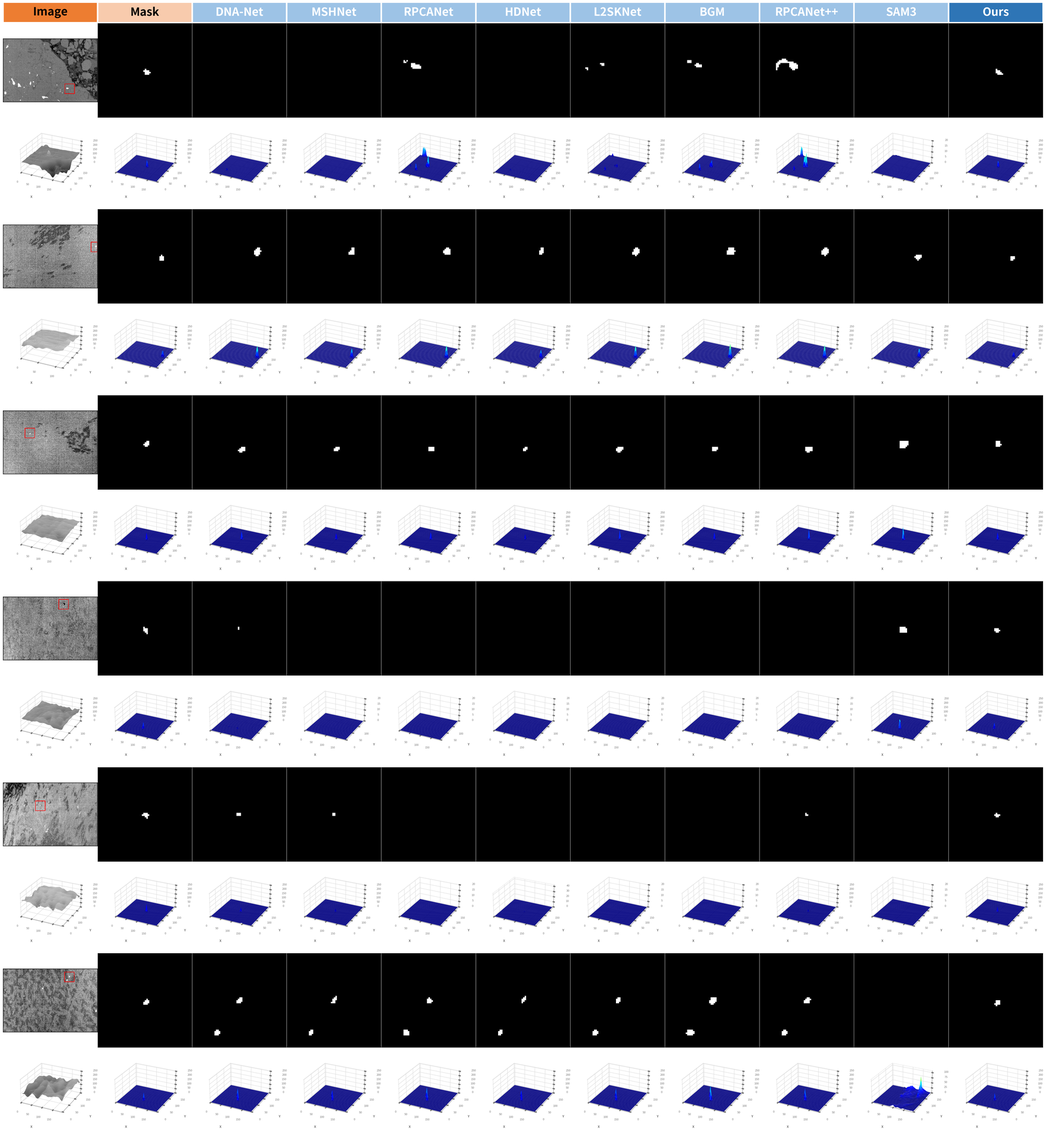
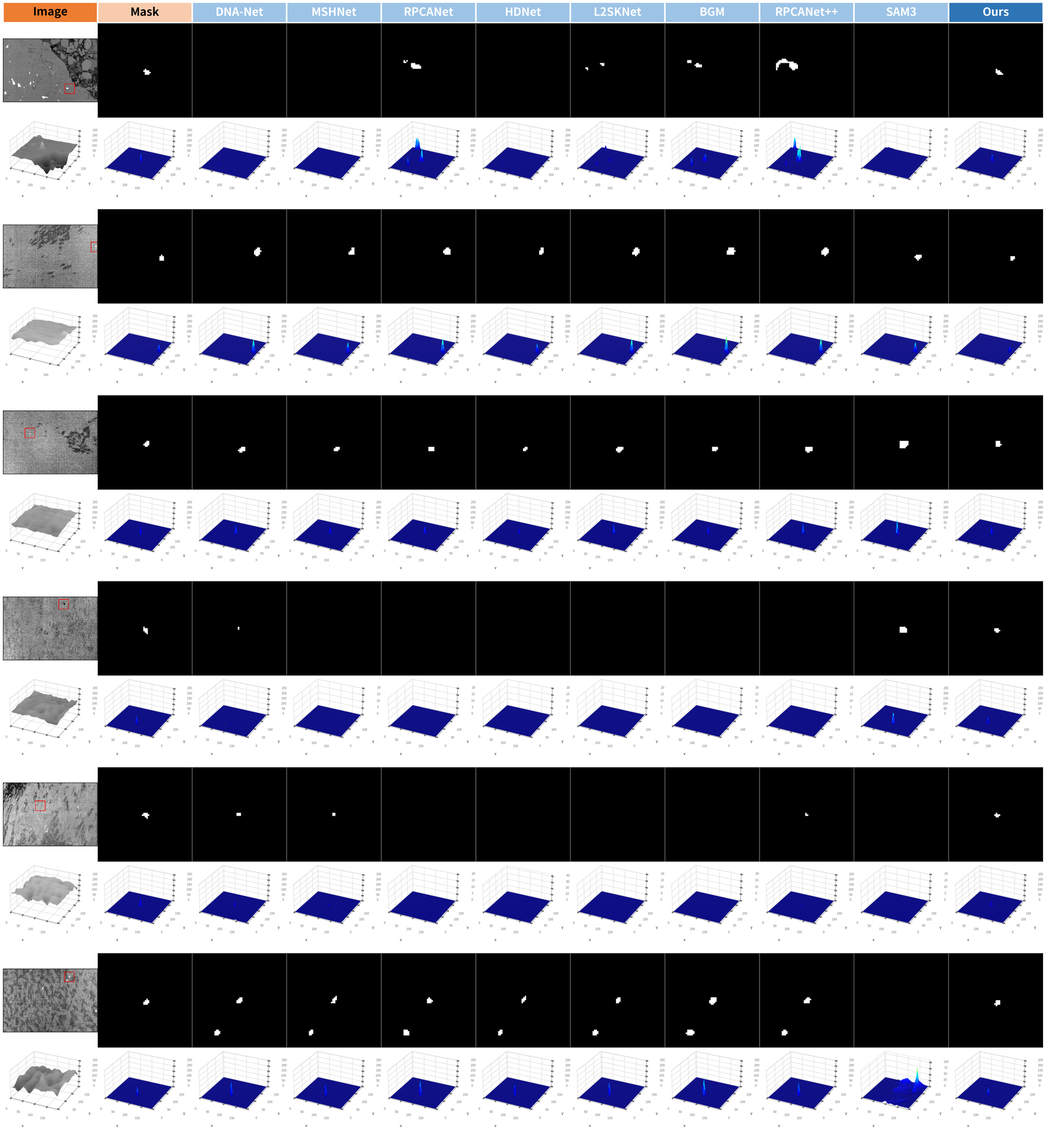
定性图 v4：3D 格子铺满（裁白边后贴回），PDF 反而变小
问题：v3 的 3D 盒子只占格宽约 66%，四周白边是 matplotlib 3D 轴自留的标签空间。
- 每个 3D 先单独渲染成 PNG：0.873x0.733 in @1200 dpi（与拼图格子同尺寸、同字号，字体完整落在格内）
- trim_white 裁掉白边（26 px），再以 aspect='auto' 贴回格子 -> 盒子占格宽约 90%
- 3D 渲染结果缓存到 <out>/_3d_cache/，单图拆分与拼图共用同一张，Visio 里看到的效果与拼图一致
- 副作用：拼图里的 3D 行变成位图（1200 dpi 印刷无差别），PDF 从 5-10 MB 降到 1-2.3 MB
- make_visio_qualitative.ps1：3D 图片高度改为按图片比例计算（923x743）

diff --git a/tools/build_paper_qualitative.py b/tools/build_paper_qualitative.py
@@ -27,6 +27,7 @@ Example
 """
 import argparse
 import json
+import shutil
 from pathlib import Path
 
 import cv2
@@ -139,20 +140,43 @@ def safe_name(name):
     return name.replace('+', 'p').replace('/', '_').replace(' ', '_')
 
 
-def render_surface_png(surf, path, vmax, cmap='jet', smooth=2.0,
-                       size_in=(1.6, 1.344), dpi=600):
-    """One 3D box as a standalone PNG, rendered at the size it will be placed in Visio.
+def trim_white(img_bgr, pad=10, thr=250):
+    """Crop the surrounding white border (keeps a small even pad)."""
+    g = cv2.cvtColor(img_bgr, cv2.COLOR_BGR2GRAY)
+    ys, xs = np.where(g < thr)
+    if len(ys) == 0:
+        return img_bgr
+    h, w = g.shape
+    y0 = max(0, int(ys.min()) - pad)
+    y1 = min(h, int(ys.max()) + 1 + pad)
+    x0 = max(0, int(xs.min()) - pad)
+    x1 = min(w, int(xs.max()) + 1 + pad)
+    return img_bgr[y0:y1, x0:x1]
 
-    1.6 x 1.344 in matches one cell of the composite figure (cell_w x 0.84*cell_w),
-    so the tick labels keep the same visual size when pasted back at 1:1.
+
+def render_surface_png(surf, path, vmax, cmap='jet', smooth=2.0,
+                       size_in=(0.873, 0.733), dpi=1200, pad=26):
+    """One 3D box as a standalone PNG, tight-cropped so the box fills the frame.
+
+    Rendered at exactly one cell of the composite figure (0.873 x 0.733 in) with the
+    same tick font, then the white border is trimmed. The composite figure pastes this
+    PNG back into the cell with aspect='auto', so the 3D box fills the cell instead of
+    floating in matplotlib's generous default margins.
     """
     path.parent.mkdir(parents=True, exist_ok=True)
     f = plt.figure(figsize=size_in, dpi=dpi, facecolor='white')
     ax = f.add_subplot(111, projection='3d')
     add_surface(ax, surf, vmax=vmax, cmap=cmap, smooth=smooth)
     f.subplots_adjust(left=0.0, right=1.0, bottom=0.0, top=1.0)
-    f.savefig(path, dpi=dpi, facecolor='white')
+    import io
+
+    buf = io.BytesIO()
+    f.savefig(buf, format='png', dpi=dpi, facecolor='white')
     plt.close(f)
+    arr = cv2.imdecode(np.frombuffer(buf.getvalue(), np.uint8), cv2.IMREAD_COLOR)
+    arr = trim_white(arr, pad=pad)
+    cv2.imwrite(str(path), arr)
+    return path
 
 
 def add_surface(ax, data, vmax=255.0, smooth=2.0, cmap='jet', tick_font=1.8):
@@ -236,6 +260,8 @@ def main():
     split_root = Path(args.split_dir) if args.split_dir else None
     if split_root is not None:
         split_root.mkdir(parents=True, exist_ok=True)
+    cache_root = out / '_3d_cache'
+    cache_root.mkdir(parents=True, exist_ok=True)
 
     if args.font:
         plt.rcParams['font.family'] = 'sans-serif'
@@ -345,15 +371,24 @@ def main():
             for spine in ax.spines.values():
                 spine.set_color('black'), spine.set_linewidth(0.3)
         for j, surf in enumerate(surfaces):
-            ax = fig.add_subplot(gs[r_srf, j], projection='3d')
             vmax = 255.0 if args.z_mode == 'shared' else max(20.0, float(surf.max()))
             cmap = 'gray' if columns[j][2] == 'image' else 'jet'
             smooth = 5.0 if columns[j][2] == 'image' else 2.0
-            add_surface(ax, surf, vmax=vmax, cmap=cmap, smooth=smooth)
+            col = safe_name(columns[j][0])
+            p3d = cache_root / f'{stem}_{j:02d}_{col}_{int(vmax)}.png'
+            if not p3d.exists():
+                render_surface_png(surf, p3d, vmax=vmax, cmap=cmap, smooth=smooth)
             if split_root is not None:
-                render_surface_png(surf, split_root / f'{si + 1:02d}_{stem}' / '3d' /
-                                   f'{j:02d}_{safe_name(columns[j][0])}.png',
-                                   vmax=vmax, cmap=cmap, smooth=smooth)
+                dst = split_root / f'{si + 1:02d}_{stem}' / '3d' / f'{j:02d}_{col}.png'
+                dst.parent.mkdir(parents=True, exist_ok=True)
+                shutil.copyfile(p3d, dst)
+            # 贴回格子并铺满（PNG 已裁掉白边，aspect='auto' 让 3D 盒子占满整格）
+            ax = fig.add_subplot(gs[r_srf, j])
+            ax.imshow(cv2.cvtColor(cv2.imread(str(p3d)), cv2.COLOR_BGR2RGB),
+                      aspect='auto', interpolation='lanczos')
+            ax.set_xticks([]), ax.set_yticks([])
+            for spine in ax.spines.values():
+                spine.set_visible(False)
 
         if split_root is not None:
             sdir = split_root / f'{si + 1:02d}_{stem}' / '2d'

diff --git a/AGENTS.md b/AGENTS.md
@@ -62,7 +62,7 @@
 - DRPCA-Net 的 11.23 FPS 是实现开销而非测量噪声：`torch.profiler` 显示单次前向 CUDA 时间的 81.8 % 花在 `ChannelAttention` 的 `nn.AdaptiveMaxPool2d(1)`（每前向 29 次调用），且延迟对 batch 1/2/4 不敏感（85/56/65 ms）。按官方代码如实记录，不改实现。口径、对照表与差异分析见 [Seal 复杂度指标说明](docs/Seal复杂度指标_说明.md)。
 - 平凡基线（决定读表方式，不新增表行）：全背景预测（1,983 张全零）在同一 test GT 上为 S 0.49990、Fw 0、E 0.25、MAE 0.00020553，IoU/F1/Pd/Fa 均为 0。12 个基线与 Ours 的 S（0.49800–0.49915）全部低于该值，12 个基线的 MAE（0.000229–0.000375）全部高于该值，只有 Ours 的 MAE（0.00015090）低于它。因此 S/MAE 在 Seal 上不区分方法，比较以 Fw/IoU/F1/Pd/Fa 为主，S/MAE 须与平凡基线并列阅读；复算见 [汇总](docs/Seal全监督基线评估汇总.md#平凡基线全背景预测)。
 - 第三批（入表，行 29～32）：L2SKNet（TGRS25）、BGM（TGRS25）、DRPCA-Net（TGRS25）、DURD（TGRS26），均为 2025–2026 年、有官方代码的全监督单帧方法，12 个对比方法到此凑满。目录 `L2SKNet-main/`、`BGM-main/`、`DRPCA-Net-main/`、`DURD-main/`；训练设置：L2SKNet 150/Adam 5e-4、BGM 150/Adam 5e-4（两者模型输出已是概率，用概率空间 dataset 级 IoU）、DRPCA-Net 60/Adam 3e-5/dataset 级 SoftIoU + 0.01 MSE、DURD 100/Adam 1e-4/SoftIoU + 0.1 MSE。各处改动逐条写在对应实验记录与 [汇总](docs/Seal全监督基线评估汇总.md#训练不稳定与失败记录)。
-- 论文版式定性图（对齐 PDDiff Fig. 8/9）：[tools/build_paper_qualitative.py](tools/build_paper_qualitative.py)，每个样例两行（2D 二值面板 + 红框/放大插图；3D 响应面 `elev=26, azim=-64`、按面板 z 上限）。三条硬约束：① 3D 行必须喂**概率图**（`--surf-maps results/<M>/Seal/fullsup_test_maps`），二值图是 0/255 阶跃，画出来只有一根尖刺；② Seal 目标只有 3–5 px，`full` 版式（整幅 + 右下插图）在 0.87 in 列宽下几乎看不见，正式图用 `--roi-panels`（面板 = 6 倍放大 ROI，`--roi-min 64 --roi-margin 24`）；③ 11 列 × 11 样例按 9.6 in 出图，若按 7.2 in 排版表头掉到 5.6 pt，主图应拆成 `seal_pick6_roi` + `seal_pick5_roi` 两张。样例取 [docs/qualitative_rank_top200.json](docs/qualitative_rank_top200.json)（`score = F1(Ours) − mean_k F1(baseline_k)`，可用 [docs/qualitative_review_top200.html](docs/qualitative_review_top200.html) 逐图复核），当前采用排名 1,2,5,6,8,11,13,15,19,21,29 共 11 张，一键重建 [tools/make_paper_qualitative_pick.sh](tools/make_paper_qualitative_pick.sh)。Ours 预测在 `Ours/test_maps`（1,983 张概率图）、SAM3 在 `Ours/SAM3-test_maps`（同阈值 `>=128`）。版式规格、样例清单与读数见 [docs/Seal定性图_论文版式.md](docs/Seal定性图_论文版式.md)，预览 `docs/assets/seal_qualitative_pick6_roi.png`、`docs/assets/seal_qualitative_pick11_full.png`。全分辨率成品（600 dpi PNG + 矢量 PDF + meta，约 100 MB/版）按版本归档：服务器保留全部历史（v1 `qualitative_paper/user_pick/`、v2 `qualitative_paper/v2_20261105/`、v3 `qualitative_paper/v3_20261105/`），本地只留最新一版在 `Ours/qualitative/v3_20261105/`；**整个 `Ours/qualitative/` 不进 git**（单版 100 MB 量级，`.gitignore` 整目录排除，只有 `docs/assets/` 里的 1800 px 预览入库）。版式演进：v2 压紧列间距、3D 加网格 + 整数刻度 + 轴名、去掉黑色粗轴线；v3 再把 3D 刻度降到 1.8 pt、盒子 `zoom=0.85`，并用 `--split-dir` 把每个 2D 面板 / 3D 盒子拆成单图（`panels_roi/<nn>_<id>/2d|3d/<col>.png`，3D 按 1.6×1.344 in @600 dpi 渲染，与拼图格子 1:1），另外用 Visio COM（`tmp/fullsup3/make_visio.ps1`，仅 Windows + 已装 Visio）生成 `seal_qualitative_11col.vsdx`：11 页、每样例一页、每页 34 个独立形状（表头矩形 + 22 张图片 + 页脚说明），可手动调整格式。
+- 论文版式定性图（对齐 PDDiff Fig. 8/9）：[tools/build_paper_qualitative.py](tools/build_paper_qualitative.py)，每个样例两行（2D 二值面板 + 红框/放大插图；3D 响应面 `elev=26, azim=-64`、按面板 z 上限）。三条硬约束：① 3D 行必须喂**概率图**（`--surf-maps results/<M>/Seal/fullsup_test_maps`），二值图是 0/255 阶跃，画出来只有一根尖刺；② Seal 目标只有 3–5 px，`full` 版式（整幅 + 右下插图）在 0.87 in 列宽下几乎看不见，正式图用 `--roi-panels`（面板 = 6 倍放大 ROI，`--roi-min 64 --roi-margin 24`）；③ 11 列 × 11 样例按 9.6 in 出图，若按 7.2 in 排版表头掉到 5.6 pt，主图应拆成 `seal_pick6_roi` + `seal_pick5_roi` 两张。样例取 [docs/qualitative_rank_top200.json](docs/qualitative_rank_top200.json)（`score = F1(Ours) − mean_k F1(baseline_k)`，可用 [docs/qualitative_review_top200.html](docs/qualitative_review_top200.html) 逐图复核），当前采用排名 1,2,5,6,8,11,13,15,19,21,29 共 11 张，一键重建 [tools/make_paper_qualitative_pick.sh](tools/make_paper_qualitative_pick.sh)。Ours 预测在 `Ours/test_maps`（1,983 张概率图）、SAM3 在 `Ours/SAM3-test_maps`（同阈值 `>=128`）。版式规格、样例清单与读数见 [docs/Seal定性图_论文版式.md](docs/Seal定性图_论文版式.md)，预览 `docs/assets/seal_qualitative_pick6_roi.png`、`docs/assets/seal_qualitative_pick11_full.png`。全分辨率成品（600 dpi PNG + 矢量 PDF + meta，约 100 MB/版）按版本归档：服务器保留全部历史（v1 `qualitative_paper/user_pick/`、v2 `v2_20261105/`、v3 `v3_20261105/`、v4 `v4_20261105/`），本地只留最新一版在 `Ours/qualitative/v4_20261105/`；**整个 `Ours/qualitative/` 不进 git**（单版 100 MB 量级，`.gitignore` 整目录排除，只有 `docs/assets/` 里的 1800 px 预览入库）。版式演进：v2 压紧列间距、3D 加网格 + 整数刻度 + 轴名、去掉黑色粗轴线；v3 把 3D 刻度降到 1.8 pt、盒子 `zoom=0.85`，并用 `--split-dir` 把每个 2D 面板 / 3D 盒子拆成单图；**v4 解决"3D 格子四周空白太大"：每个 3D 先单独渲染成 PNG（0.873×0.733 in @1200 dpi，与格子同尺寸同字号）→ `trim_white` 裁掉白边（26 px）→ `aspect='auto'` 贴回格子，盒子占格宽从 66% 提到约 90%**；代价是拼图里的 3D 行变成位图（PDF 从 5–10 MB 反而降到 1–2.3 MB）。Visio 版由 [tools/make_visio_qualitative.ps1](tools/make_visio_qualitative.ps1) 用 Visio COM 生成（仅 Windows + 已装 Visio）：11 页、每样例一页、每页 34 个独立形状（表头矩形 + 22 张图片 + 页脚说明），可手动调整格式。
 - 定性图（论文拼图用）：12 个方法与 Ours 的二值预测图在 `results/<Method>/Seal/test_binary/`（1,983 张，`pixel >= 128` → 255），由 [tools/make_binary_maps.py](tools/make_binary_maps.py) 与 [tools/make_qualitative.sh](tools/make_qualitative.sh) 生成；样例拼图在服务器 `qualitative/<stem>/panel.png`（RGB/热红外/GT/预测叠加，13 行），样例清单 `docs/Seal定性对比样例.json`，说明见 [docs/Seal定性对比图.md](docs/Seal定性对比图.md)。
 - IoU 的边界敏感性：Seal 目标平均 14.3 像素，把 GT 膨胀/腐蚀 1 像素当预测只能得到 IoU 0.3910 / 0.0826；表中 IoU 0.19–0.31 对应约 1–2 像素边界误差，不能读作分割质量百分比，须与 Fw/F1/Pd/Fa 合看，详见 [定义对照](docs/小目标评价指标_定义与代码对照.md#iou-的边界敏感性seal-gt-实测)。
 - 实验记录：[ACM](docs/ACM_Seal实验记录.md)、[DNA-Net](docs/DNANet_Seal实验记录.md)、[MSHNet](docs/MSHNet_Seal实验记录.md)、[UIU-Net](docs/UIU-Net_Seal实验记录.md)、[SCTransNet](docs/SCTransNet_Seal实验记录.md)、[RPCANet](docs/RPCANet_Seal实验记录.md)、[HDNet](docs/HDNet_Seal实验记录.md)、[ILNet](docs/ILNet_Seal实验记录.md)、[RPCANet++](docs/RPCANet++_Seal实验记录.md)、[L2SKNet](docs/L2SKNet_Seal实验记录.md)、[BGM](docs/BGM_Seal实验记录.md)、[DRPCA-Net](docs/DRPCA-Net_Seal实验记录.md)、[DURD](docs/DURD_Seal实验记录.md)、[DHiF](docs/DHiF_Seal实验记录.md)，汇总见 [Seal全监督基线评估汇总](docs/Seal全监督基线评估汇总.md)，定性图见 [Seal定性对比图](docs/Seal定性对比图.md)。

diff --git a/README.md b/README.md
@@ -65,7 +65,7 @@
 - DRPCA-Net 的 11.23 FPS 是实现开销而非测量噪声：`torch.profiler` 显示单次前向 CUDA 时间的 81.8 % 花在 `ChannelAttention` 的 `nn.AdaptiveMaxPool2d(1)`（每前向 29 次调用），且延迟对 batch 1/2/4 不敏感（85/56/65 ms）。按官方代码如实记录，不改实现。口径、对照表与差异分析见 [Seal 复杂度指标说明](docs/Seal复杂度指标_说明.md)。
 - 平凡基线（决定读表方式，不新增表行）：全背景预测（1,983 张全零）在同一 test GT 上为 S 0.49990、Fw 0、E 0.25、MAE 0.00020553，IoU/F1/Pd/Fa 均为 0。12 个基线与 Ours 的 S（0.49800–0.49915）全部低于该值，12 个基线的 MAE（0.000229–0.000375）全部高于该值，只有 Ours 的 MAE（0.00015090）低于它。因此 S/MAE 在 Seal 上不区分方法，比较以 Fw/IoU/F1/Pd/Fa 为主，S/MAE 须与平凡基线并列阅读；复算见 [汇总](docs/Seal全监督基线评估汇总.md#平凡基线全背景预测)。
 - 第三批（入表，行 29～32）：L2SKNet（TGRS25）、BGM（TGRS25）、DRPCA-Net（TGRS25）、DURD（TGRS26），均为 2025–2026 年、有官方代码的全监督单帧方法，12 个对比方法到此凑满。目录 `L2SKNet-main/`、`BGM-main/`、`DRPCA-Net-main/`、`DURD-main/`；训练设置：L2SKNet 150/Adam 5e-4、BGM 150/Adam 5e-4（两者模型输出已是概率，用概率空间 dataset 级 IoU）、DRPCA-Net 60/Adam 3e-5/dataset 级 SoftIoU + 0.01 MSE、DURD 100/Adam 1e-4/SoftIoU + 0.1 MSE。各处改动逐条写在对应实验记录与 [汇总](docs/Seal全监督基线评估汇总.md#训练不稳定与失败记录)。
-- 论文版式定性图（对齐 PDDiff Fig. 8/9）：[tools/build_paper_qualitative.py](tools/build_paper_qualitative.py)，每个样例两行（2D 二值面板 + 红框/放大插图；3D 响应面 `elev=26, azim=-64`、按面板 z 上限）。三条硬约束：① 3D 行必须喂**概率图**（`--surf-maps results/<M>/Seal/fullsup_test_maps`），二值图是 0/255 阶跃，画出来只有一根尖刺；② Seal 目标只有 3–5 px，`full` 版式（整幅 + 右下插图）在 0.87 in 列宽下几乎看不见，正式图用 `--roi-panels`（面板 = 6 倍放大 ROI，`--roi-min 64 --roi-margin 24`）；③ 11 列 × 11 样例按 9.6 in 出图，若按 7.2 in 排版表头掉到 5.6 pt，主图应拆成 `seal_pick6_roi` + `seal_pick5_roi` 两张。样例取 [docs/qualitative_rank_top200.json](docs/qualitative_rank_top200.json)（`score = F1(Ours) − mean_k F1(baseline_k)`，可用 [docs/qualitative_review_top200.html](docs/qualitative_review_top200.html) 逐图复核），当前采用排名 1,2,5,6,8,11,13,15,19,21,29 共 11 张，一键重建 [tools/make_paper_qualitative_pick.sh](tools/make_paper_qualitative_pick.sh)。Ours 预测在 `Ours/test_maps`（1,983 张概率图）、SAM3 在 `Ours/SAM3-test_maps`（同阈值 `>=128`）。版式规格、样例清单与读数见 [docs/Seal定性图_论文版式.md](docs/Seal定性图_论文版式.md)，预览 `docs/assets/seal_qualitative_pick6_roi.png`、`docs/assets/seal_qualitative_pick11_full.png`。全分辨率成品（600 dpi PNG + 矢量 PDF + meta，约 100 MB/版）按版本归档：服务器保留全部历史（v1 `qualitative_paper/user_pick/`、v2 `qualitative_paper/v2_20261105/`、v3 `qualitative_paper/v3_20261105/`），本地只留最新一版在 `Ours/qualitative/v3_20261105/`；**整个 `Ours/qualitative/` 不进 git**（单版 100 MB 量级，`.gitignore` 整目录排除，只有 `docs/assets/` 里的 1800 px 预览入库）。版式演进：v2 压紧列间距、3D 加网格 + 整数刻度 + 轴名、去掉黑色粗轴线；v3 再把 3D 刻度降到 1.8 pt、盒子 `zoom=0.85`，并用 `--split-dir` 把每个 2D 面板 / 3D 盒子拆成单图（`panels_roi/<nn>_<id>/2d|3d/<col>.png`，3D 按 1.6×1.344 in @600 dpi 渲染，与拼图格子 1:1），另外用 Visio COM（`tmp/fullsup3/make_visio.ps1`，仅 Windows + 已装 Visio）生成 `seal_qualitative_11col.vsdx`：11 页、每样例一页、每页 34 个独立形状（表头矩形 + 22 张图片 + 页脚说明），可手动调整格式。
+- 论文版式定性图（对齐 PDDiff Fig. 8/9）：[tools/build_paper_qualitative.py](tools/build_paper_qualitative.py)，每个样例两行（2D 二值面板 + 红框/放大插图；3D 响应面 `elev=26, azim=-64`、按面板 z 上限）。三条硬约束：① 3D 行必须喂**概率图**（`--surf-maps results/<M>/Seal/fullsup_test_maps`），二值图是 0/255 阶跃，画出来只有一根尖刺；② Seal 目标只有 3–5 px，`full` 版式（整幅 + 右下插图）在 0.87 in 列宽下几乎看不见，正式图用 `--roi-panels`（面板 = 6 倍放大 ROI，`--roi-min 64 --roi-margin 24`）；③ 11 列 × 11 样例按 9.6 in 出图，若按 7.2 in 排版表头掉到 5.6 pt，主图应拆成 `seal_pick6_roi` + `seal_pick5_roi` 两张。样例取 [docs/qualitative_rank_top200.json](docs/qualitative_rank_top200.json)（`score = F1(Ours) − mean_k F1(baseline_k)`，可用 [docs/qualitative_review_top200.html](docs/qualitative_review_top200.html) 逐图复核），当前采用排名 1,2,5,6,8,11,13,15,19,21,29 共 11 张，一键重建 [tools/make_paper_qualitative_pick.sh](tools/make_paper_qualitative_pick.sh)。Ours 预测在 `Ours/test_maps`（1,983 张概率图）、SAM3 在 `Ours/SAM3-test_maps`（同阈值 `>=128`）。版式规格、样例清单与读数见 [docs/Seal定性图_论文版式.md](docs/Seal定性图_论文版式.md)，预览 `docs/assets/seal_qualitative_pick6_roi.png`、`docs/assets/seal_qualitative_pick11_full.png`。全分辨率成品（600 dpi PNG + 矢量 PDF + meta，约 100 MB/版）按版本归档：服务器保留全部历史（v1 `qualitative_paper/user_pick/`、v2 `v2_20261105/`、v3 `v3_20261105/`、v4 `v4_20261105/`），本地只留最新一版在 `Ours/qualitative/v4_20261105/`；**整个 `Ours/qualitative/` 不进 git**（单版 100 MB 量级，`.gitignore` 整目录排除，只有 `docs/assets/` 里的 1800 px 预览入库）。版式演进：v2 压紧列间距、3D 加网格 + 整数刻度 + 轴名、去掉黑色粗轴线；v3 把 3D 刻度降到 1.8 pt、盒子 `zoom=0.85`，并用 `--split-dir` 把每个 2D 面板 / 3D 盒子拆成单图；**v4 解决"3D 格子四周空白太大"：每个 3D 先单独渲染成 PNG（0.873×0.733 in @1200 dpi，与格子同尺寸同字号）→ `trim_white` 裁掉白边（26 px）→ `aspect='auto'` 贴回格子，盒子占格宽从 66% 提到约 90%**；代价是拼图里的 3D 行变成位图（PDF 从 5–10 MB 反而降到 1–2.3 MB）。Visio 版由 [tools/make_visio_qualitative.ps1](tools/make_visio_qualitative.ps1) 用 Visio COM 生成（仅 Windows + 已装 Visio）：11 页、每样例一页、每页 34 个独立形状（表头矩形 + 22 张图片 + 页脚说明），可手动调整格式。
 - 定性图（论文拼图用）：12 个方法与 Ours 的二值预测图在 `results/<Method>/Seal/test_binary/`（1,983 张，`pixel >= 128` → 255），由 [tools/make_binary_maps.py](tools/make_binary_maps.py) 与 [tools/make_qualitative.sh](tools/make_qualitative.sh) 生成；样例拼图在服务器 `qualitative/<stem>/panel.png`（RGB/热红外/GT/预测叠加，13 行），样例清单 `docs/Seal定性对比样例.json`，说明见 [docs/Seal定性对比图.md](docs/Seal定性对比图.md)。
 - IoU 的边界敏感性：Seal 目标平均 14.3 像素，把 GT 膨胀/腐蚀 1 像素当预测只能得到 IoU 0.3910 / 0.0826；表中 IoU 0.19–0.31 对应约 1–2 像素边界误差，不能读作分割质量百分比，须与 Fw/F1/Pd/Fa 合看，详见 [定义对照](docs/小目标评价指标_定义与代码对照.md#iou-的边界敏感性seal-gt-实测)。
 - 实验记录：[ACM](docs/ACM_Seal实验记录.md)、[DNA-Net](docs/DNANet_Seal实验记录.md)、[MSHNet](docs/MSHNet_Seal实验记录.md)、[UIU-Net](docs/UIU-Net_Seal实验记录.md)、[SCTransNet](docs/SCTransNet_Seal实验记录.md)、[RPCANet](docs/RPCANet_Seal实验记录.md)、[HDNet](docs/HDNet_Seal实验记录.md)、[ILNet](docs/ILNet_Seal实验记录.md)、[RPCANet++](docs/RPCANet++_Seal实验记录.md)、[L2SKNet](docs/L2SKNet_Seal实验记录.md)、[BGM](docs/BGM_Seal实验记录.md)、[DRPCA-Net](docs/DRPCA-Net_Seal实验记录.md)、[DURD](docs/DURD_Seal实验记录.md)、[DHiF](docs/DHiF_Seal实验记录.md)，汇总见 [Seal全监督基线评估汇总](docs/Seal全监督基线评估汇总.md)，定性图见 [Seal定性对比图](docs/Seal定性对比图.md)。

diff --git a/docs/Seal定性图_论文版式.md b/docs/Seal定性图_论文版式.md
@@ -112,7 +112,7 @@ python tools/build_paper_qualitative.py \
 
 （`2688/2120/2894` 是多目标或细长目标，视野被 `--roi-min 64` 自动放大到 98–138 px。）
 
-构建：`bash tools/make_paper_qualitative_pick.sh all qualitative_paper/v3_20261105`（第二个参数是输出目录，默认 `qualitative_paper/latest`；**每次改版都给新目录**，别覆盖旧版）。`full`/`roi` 二选一也行。
+构建：`bash tools/make_paper_qualitative_pick.sh all qualitative_paper/v4_20261105`（第二个参数是输出目录，默认 `qualitative_paper/latest`；**每次改版都给新目录**，别覆盖旧版）。`full`/`roi` 二选一也行。
 
 ### 版本
 
@@ -120,11 +120,12 @@ python tools/build_paper_qualitative.py \
 |---|---|---|---|
 | v1 | `qualitative_paper/user_pick/` | 已删除 | 首版：3D 无刻度、有黑色粗轴线、列间距 0.02、Image 列 `gray+sigma3` |
 | v2 | `qualitative_paper/v2_20261105/` | 已删除 | 列间距压到 0.004、2D 行按真实比例、3D 加网格+整数刻度+轴名、去掉黑粗轴线、3D 盒子 `zoom=0.78` |
-| v3（当前） | `qualitative_paper/v3_20261105/` | `Ours/qualitative/v3_20261105/` | 3D 刻度 1.8 pt / `zoom=0.85`（盒子再放大一档）、tick/轴线再淡一档；新增单图拆分 `panels_roi/`（242 张）与 Visio 可编辑版 |
+| v3 | `qualitative_paper/v3_20261105/` | 已删除 | 3D 刻度 1.8 pt、`zoom=0.85`；新增单图拆分 `panels_roi/` 与 Visio 版 |
+| v4（当前） | `qualitative_paper/v4_20261105/` | `Ours/qualitative/v4_20261105/` | 3D 盒子铺满格子：每个 3D 先单独渲染（0.873×0.733 in @1200 dpi，与格子同尺寸同字号）→ 裁白边（26 px）→ `aspect='auto'` 贴回，盒子占格宽从 66% 提到约 90%；拼图里的 3D 行因此变成位图，PDF 从 5–10 MB 降到 1–2.3 MB |
 
 服务器保留全部历史版本；本地只留最新一版，**整个 `Ours/qualitative/` 不进 git**（单版 100 MB 量级，`.gitignore` 已整目录排除）。
 
-v3 产物（600 dpi PNG + 矢量 PDF + meta）：
+v4 产物（600 dpi PNG + 矢量 PDF + meta）：
 
 | 文件 | 内容 | 尺寸 |
 |---|---|---|
@@ -132,14 +133,14 @@ v3 产物（600 dpi PNG + 矢量 PDF + meta）：
 | `seal_pick6_qualitative.*` / `seal_pick5_qualitative.*` | 同样例拆成 6 + 5 两张 | 5760×5569 / 5760×4666 px |
 | `seal_pick11_roi_qualitative.*` | 11 样例，`roi` 版式（面板 = 6 倍放大 ROI） | 5760×11408 px / 9.6×19.0 in |
 | `seal_pick6_roi_*` / `seal_pick5_roi_*` | 同上拆两张 | 5760×6290 / 5760×5267 px |
-| `panels_roi/<nn>_<id>/2d|3d/<col>.png` | 单图拆分：每个 2D 面板、每个 3D 盒子各一张 | 2D 384×384；3D 960×806（1.6×1.344 in @600 dpi） |
+| `panels_roi/<nn>_<id>/2d|3d/<col>.png` | 单图拆分：每个 2D 面板、每个 3D 盒子各一张 | 2D 384×384；3D 923×743（已裁白边） |
 | `seal_qualitative_11col.vsdx` | Visio 可编辑版：11 页（每样例一页），34 个独立形状/页 | 页面 18.3×4.3 in |
 
-单图拆分用 `--split-dir <out>/panels_roi`；3D 单图按拼图格子的实际尺寸（1.6 × 1.344 in）渲染，贴回 Visio/PPT 时字号与拼图一致。
+单图拆分的 3D 图就是拼图里贴的那张（同一次渲染、缓存目录 `<out>/_3d_cache/`），所以 Visio 里看到的效果与拼图完全一致。
 
 Visio 版由 [tools/make_visio_qualitative.ps1](tools/make_visio_qualitative.ps1) 用 Visio COM 生成（仅 Windows + 已装 Visio 可用）：表头是带填充/文字/雅黑的矩形，图片是嵌入的图片形状，页脚一行说明——都能单独选中改格式。
 
-仓库内预览（1800 px 宽，仅用于查看版式，已同步为 v3）：[`seal_qualitative_pick6_roi.png`](assets/seal_qualitative_pick6_roi.png)、[`seal_qualitative_pick5_roi.png`](assets/seal_qualitative_pick5_roi.png)、[`seal_qualitative_pick11_full.png`](assets/seal_qualitative_pick11_full.png)。
+仓库内预览（1800 px 宽，仅用于查看版式，已同步为 v4）：[`seal_qualitative_pick6_roi.png`](assets/seal_qualitative_pick6_roi.png)、[`seal_qualitative_pick5_roi.png`](assets/seal_qualitative_pick5_roi.png)、[`seal_qualitative_pick11_full.png`](assets/seal_qualitative_pick11_full.png)。
 
 从图上直接能读到的事实（对照表 21～32 行）：
 
